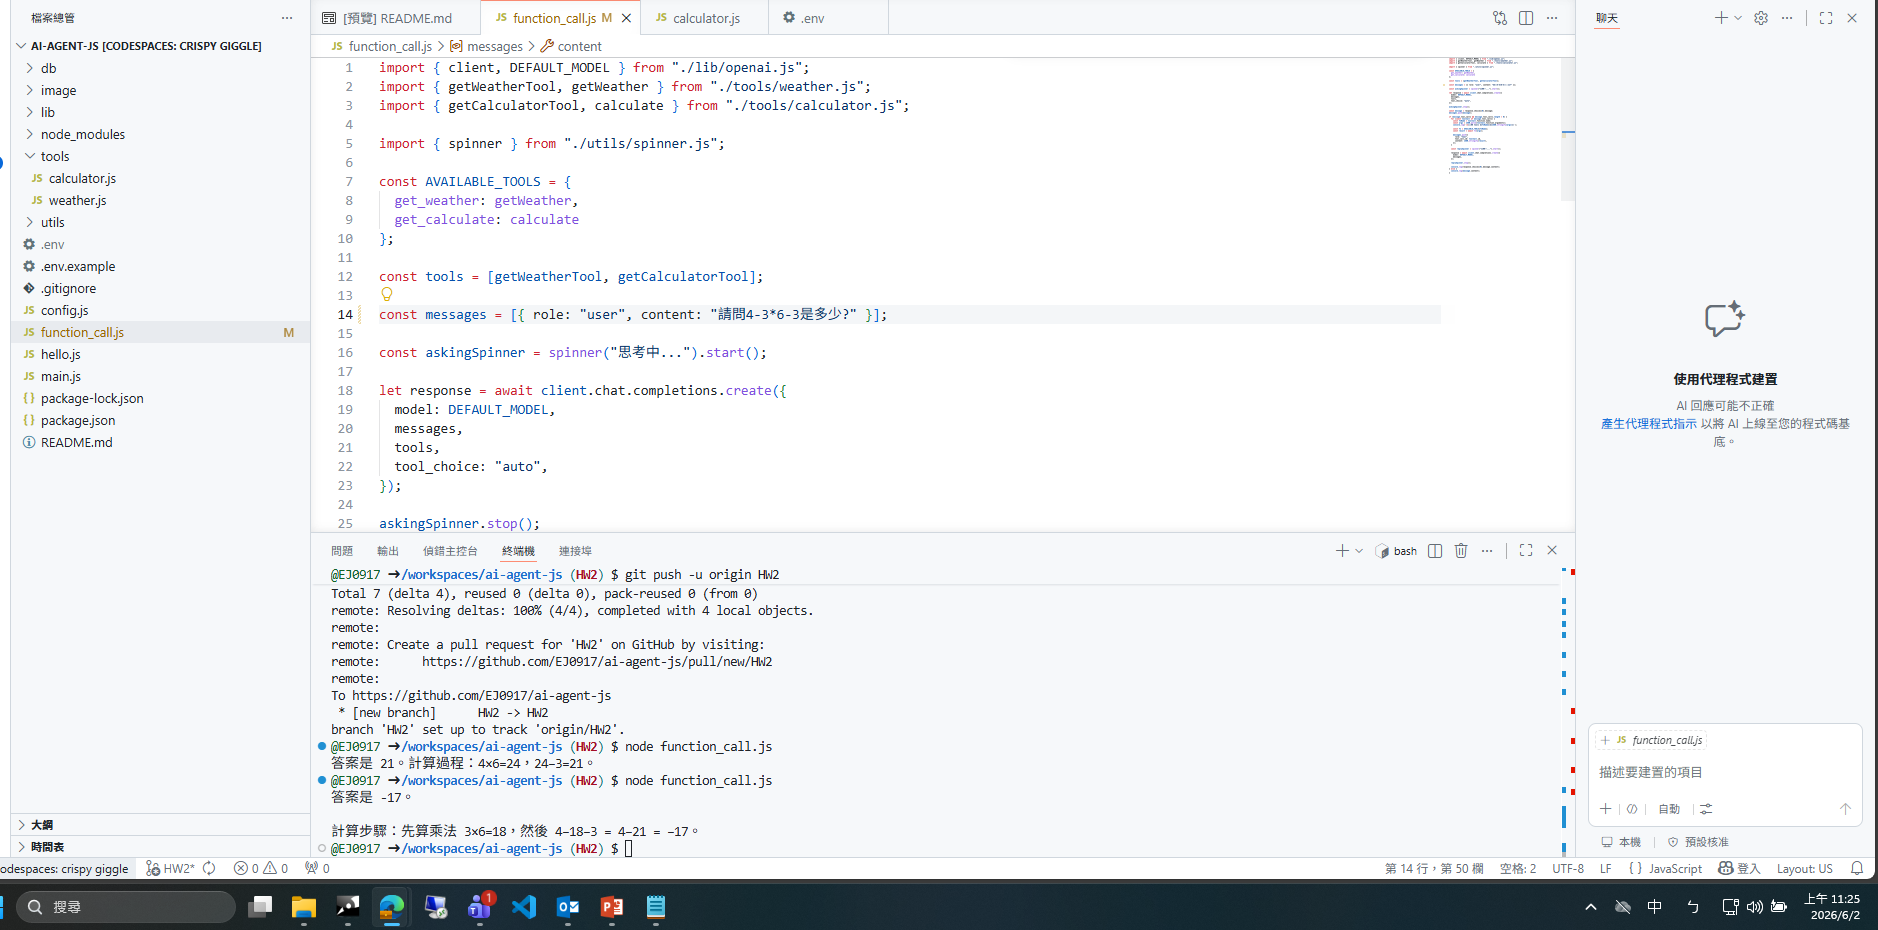
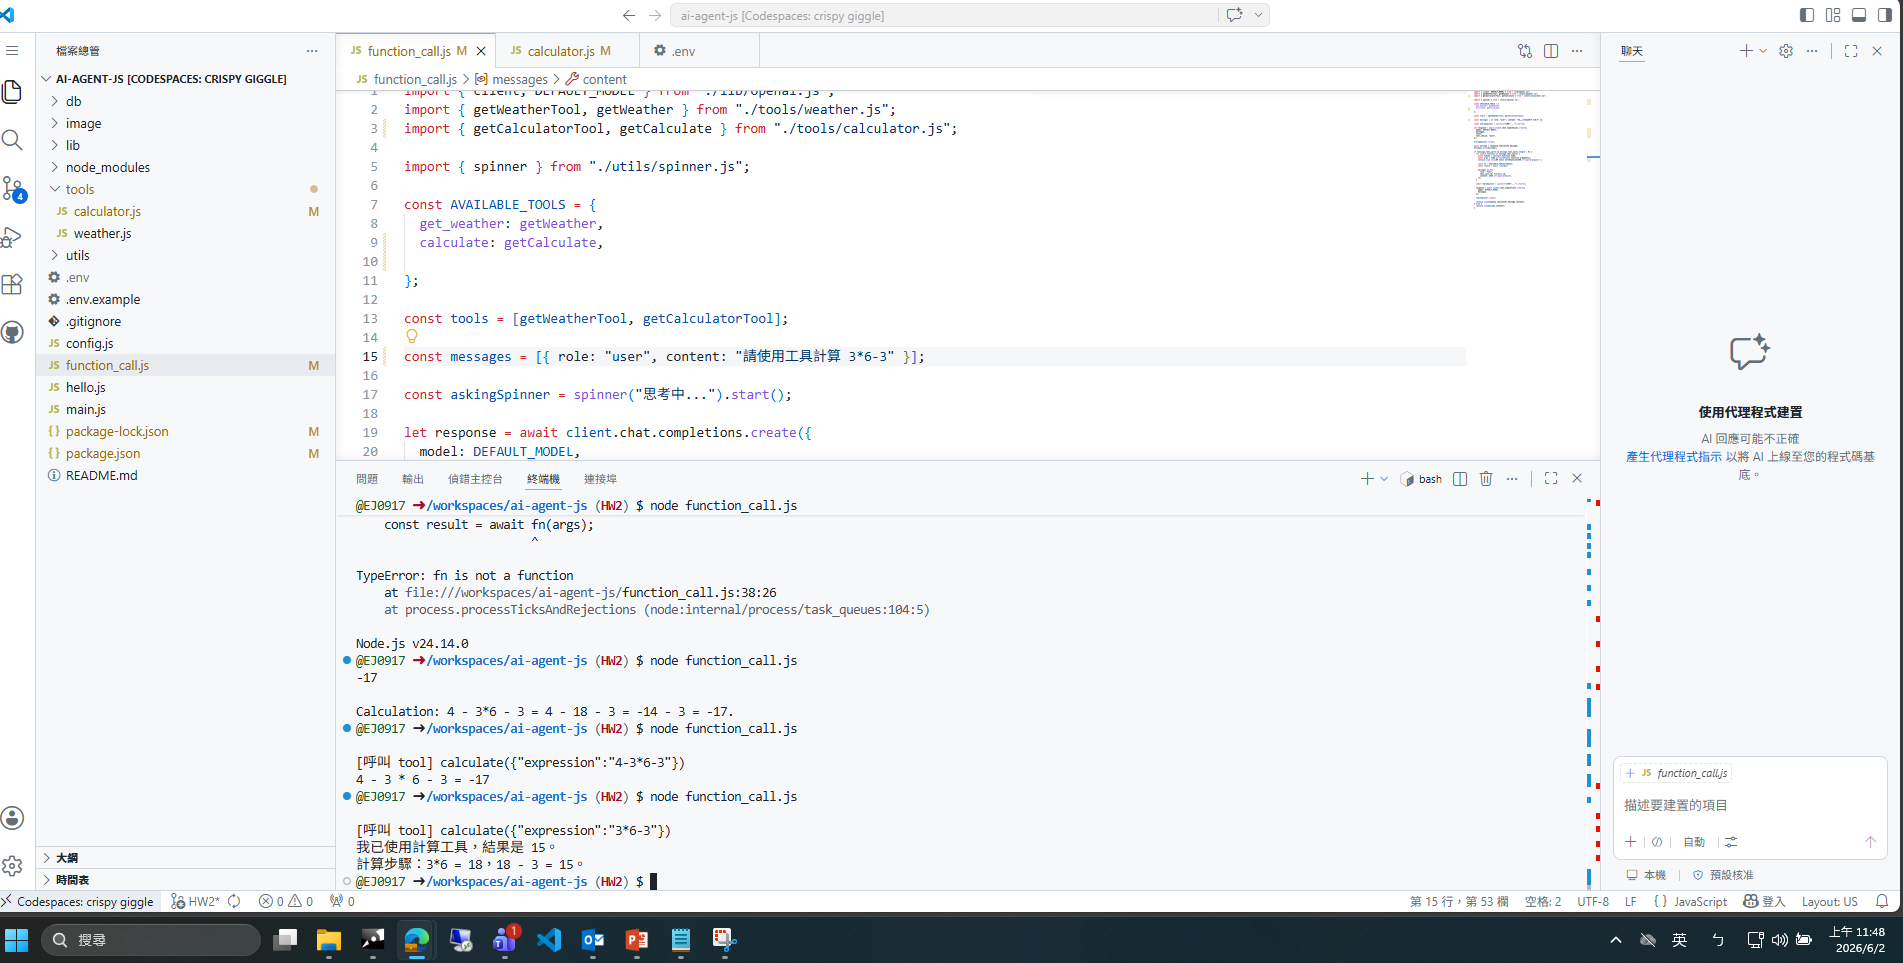
HW2_2502082 Calculator Function Call

diff --git a/function_call.js b/function_call.js
@@ -1,17 +1,18 @@
 import { client, DEFAULT_MODEL } from "./lib/openai.js";
 import { getWeatherTool, getWeather } from "./tools/weather.js";
-import { getCalculatorTool, calculate } from "./tools/calculator.js";
+import { getCalculatorTool, getCalculate } from "./tools/calculator.js";
 
 import { spinner } from "./utils/spinner.js";
 
 const AVAILABLE_TOOLS = {
   get_weather: getWeather,
-  get_calculate: calculate
+  calculate: getCalculate,
+  
 };
 
 const tools = [getWeatherTool, getCalculatorTool];
 
-const messages = [{ role: "user", content: "請問4-3*6-3是多少?" }];
+const messages = [{ role: "user", content: "請使用工具計算 3*6-3" }];
 
 const askingSpinner = spinner("思考中...").start();
 

diff --git a/tools/calculator.js b/tools/calculator.js
@@ -1,3 +1,5 @@
+import { evaluate } from "mathjs";
+
 export const getCalculatorTool = {
   type: "function",
   function: {
@@ -16,6 +18,6 @@ export const getCalculatorTool = {
   },
 };
 
-export async function calculate({ expression }) {
-    return eval(expression)
+export async function getCalculate({ expression }) {
+  return evaluate(expression)
 }
